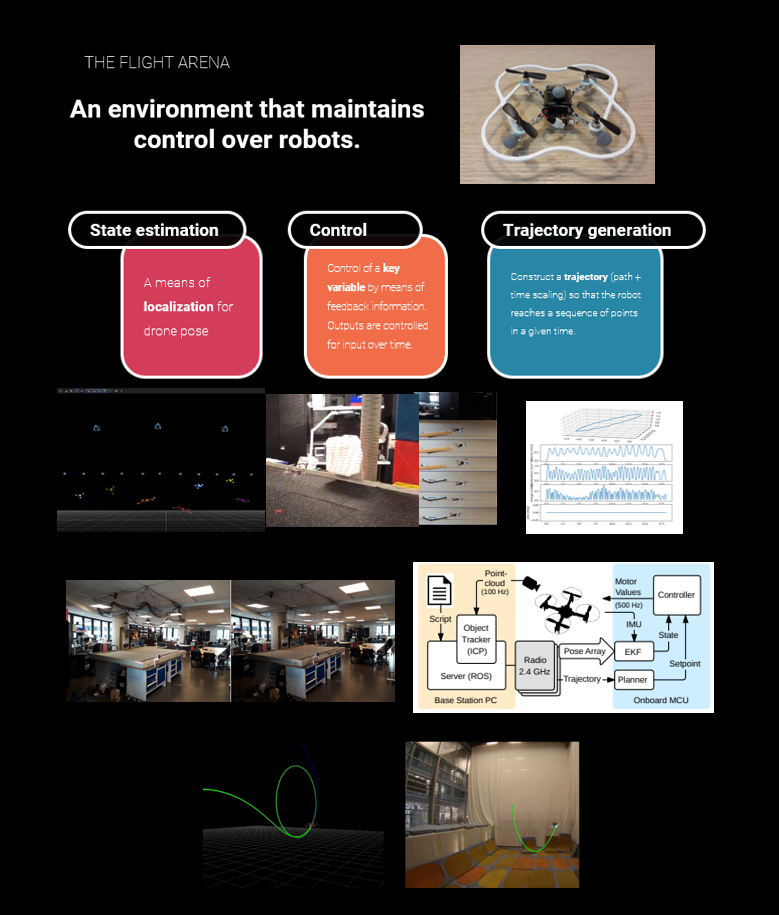
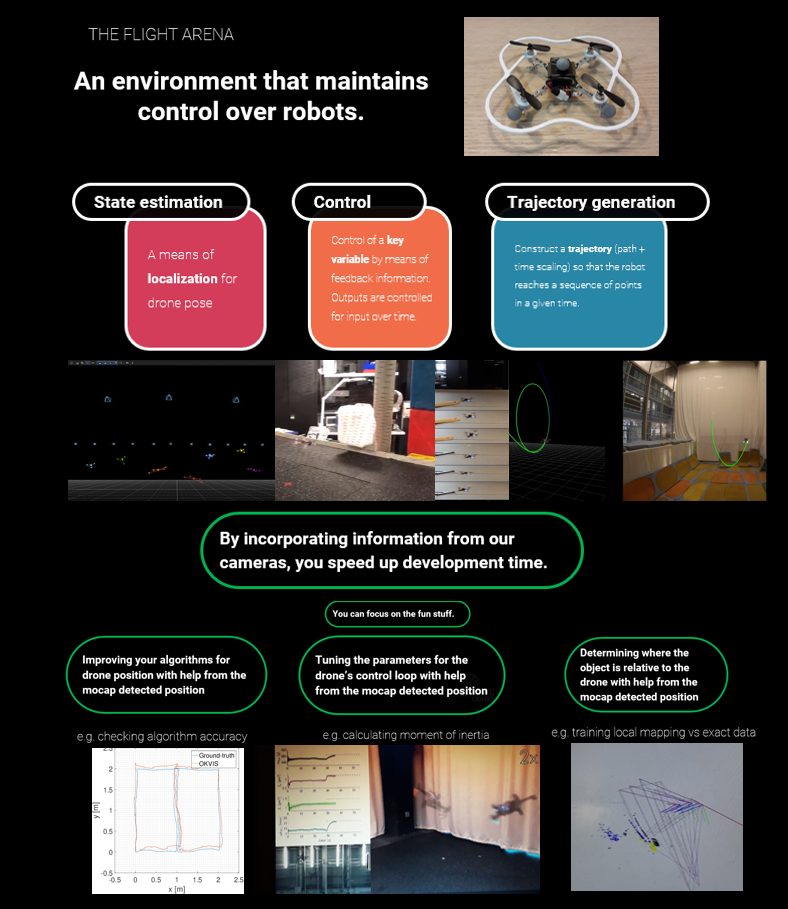
better stages

diff --git a/_pages/home.md b/_pages/home.md
@@ -129,6 +129,13 @@ gallery_theory:
     image_path: /assets/images/frontpage/arena/stages-illustrated.PNG
     alt: "Custom line-sensors"
     title: "Custom line-sensors"
+
+gallery_platform:
+
+  - url: https://autonomousdronedevelopers.github.io/arena/stages-illustrated
+    image_path: /assets/images/frontpage/arena/platform.jpg
+    alt: "Custom line-sensors"
+    title: "Custom line-sensors"
 ---
 
 
@@ -142,7 +149,11 @@ gallery_theory:
 <h1> </h1>
 <h1>The platform is in beta stage and we welcome anyone interested in using it.</h1>
 
-{% include gallery id="gallery_theory" caption="There are three main stages in robot development. Our platform operates on all three levels." %}
+{% include gallery id="gallery_platform" caption="" %}
+
+<h1>There are three main stages in robot development. Our platform operates on all three levels.</h1>
+
+{% include gallery id="gallery_theory" caption="" %}
 
 <h2>Our robots are localized with sub-millimetre level precision. To achieve this, the drone arena is fitted with a system of infrared cameras. The drone can be flown according to this information and executes figures in a tight latency loop of 28 ms. </h2>
 
